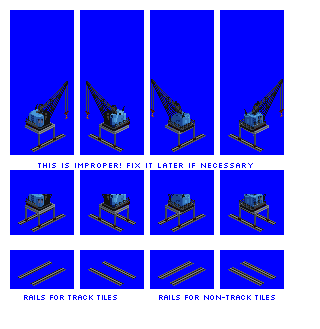
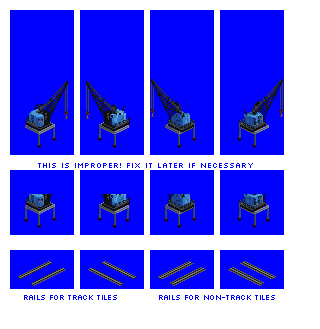
Change: improved harbour cranes by removing rail sprites from crane sprites (as rails are already split out as separate sprites)

diff --git a/src/stations/harbour_crane.py b/src/stations/harbour_crane.py
@@ -45,25 +45,37 @@ def main():
     )
 
     facility_type.add_spritelayout(
-        id="harbour_crane_spritelayout_1",
-        rear_building_sprites=["sprite_2"],
+        id="harbour_crane_spritelayout_1_track",
+        rear_building_sprites=["sprite_rails_for_track_tile", "sprite_2"],
         front_building_sprites=["sprite_1"],
         fences=["nw", "ne", "se", "sw"],
     )
     facility_type.add_spritelayout(
-        id="harbour_crane_spritelayout_2",
-        rear_building_sprites=["sprite_4"],
+        id="harbour_crane_spritelayout_2_track",
+        rear_building_sprites=["sprite_rails_for_track_tile", "sprite_4"],
         front_building_sprites=["sprite_3"],
         fences=["nw", "ne", "se", "sw"],
     )
     facility_type.add_spritelayout(
-        id="harbour_crane_spritelayout_crane_rails_for_track_tile",
+        id="harbour_crane_spritelayout_1_non_track",
+        rear_building_sprites=["sprite_rails_for_non_track_tile", "sprite_2"],
+        front_building_sprites=["sprite_1"],
+        fences=["nw", "ne", "se", "sw"],
+    )
+    facility_type.add_spritelayout(
+        id="harbour_crane_spritelayout_2_non_track",
+        rear_building_sprites=["sprite_rails_for_non_track_tile", "sprite_4"],
+        front_building_sprites=["sprite_3"],
+        fences=["nw", "ne", "se", "sw"],
+    )
+    facility_type.add_spritelayout(
+        id="harbour_crane_spritelayout_crane_rails_track",
         rear_building_sprites=["sprite_rails_for_track_tile"],
         front_building_sprites=[],
         fences=["nw", "ne", "se", "sw"],
     )
     facility_type.add_spritelayout(
-        id="harbour_crane_spritelayout_crane_rails_for_non_track_tile",
+        id="harbour_crane_spritelayout_crane_rails_non_track",
         rear_building_sprites=["sprite_rails_for_non_track_tile"],
         front_building_sprites=[],
         fences=["nw", "ne", "se", "sw"],
@@ -75,7 +87,7 @@ def main():
             (
                 0,
                 0,
-                "harbour_crane_spritelayout_1",
+                "harbour_crane_spritelayout_1_non_track",
             ),
         ],
     )
@@ -85,7 +97,7 @@ def main():
             (
                 0,
                 0,
-                "harbour_crane_spritelayout_2",
+                "harbour_crane_spritelayout_2_non_track",
             ),
         ],
     )
@@ -95,7 +107,7 @@ def main():
             (
                 0,
                 0,
-                "harbour_crane_spritelayout_crane_rails_for_non_track_tile",
+                "harbour_crane_spritelayout_crane_rails_non_track",
             ),
         ],
     )
@@ -107,7 +119,7 @@ def main():
             (
                 0,
                 0,
-                "harbour_crane_spritelayout_1",
+                "harbour_crane_spritelayout_1_track",
             ),
         ],
     )
@@ -119,7 +131,7 @@ def main():
             (
                 0,
                 0,
-                "harbour_crane_spritelayout_2",
+                "harbour_crane_spritelayout_2_track",
             ),
         ],
     )
@@ -131,7 +143,7 @@ def main():
             (
                 0,
                 0,
-                "harbour_crane_spritelayout_crane_rails_for_track_tile",
+                "harbour_crane_spritelayout_crane_rails_track",
             ),
         ],
     )
